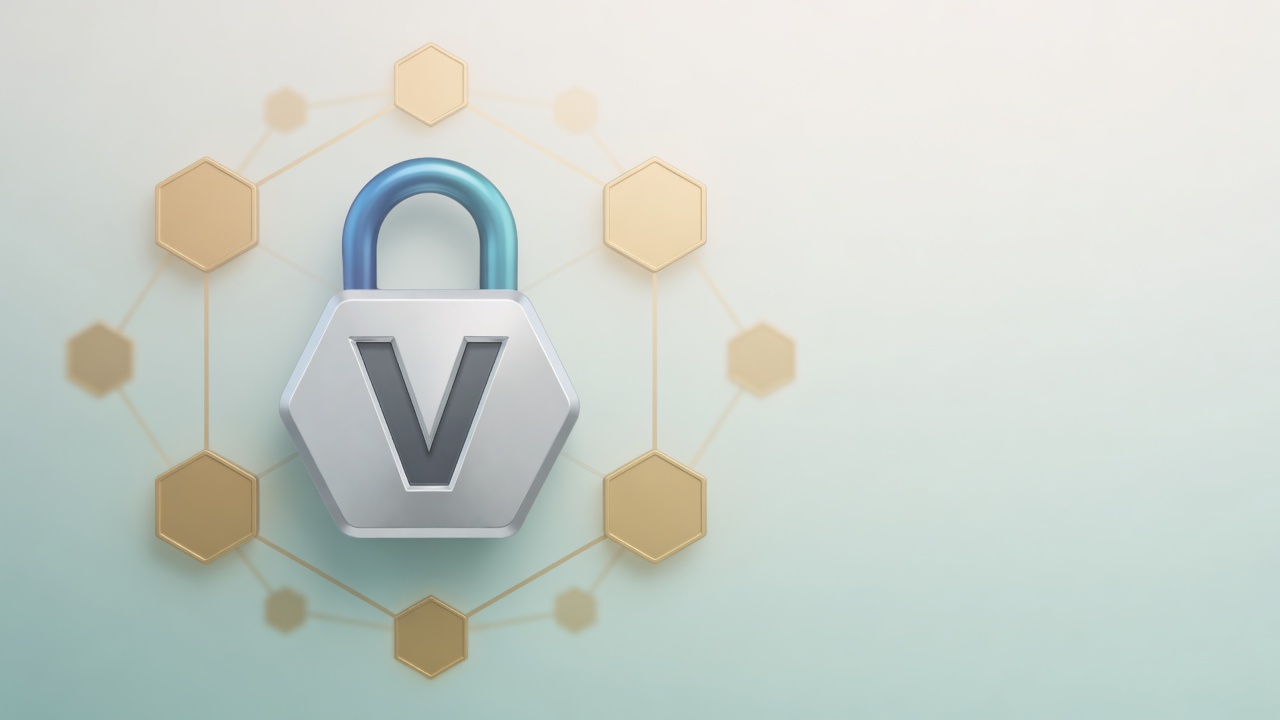
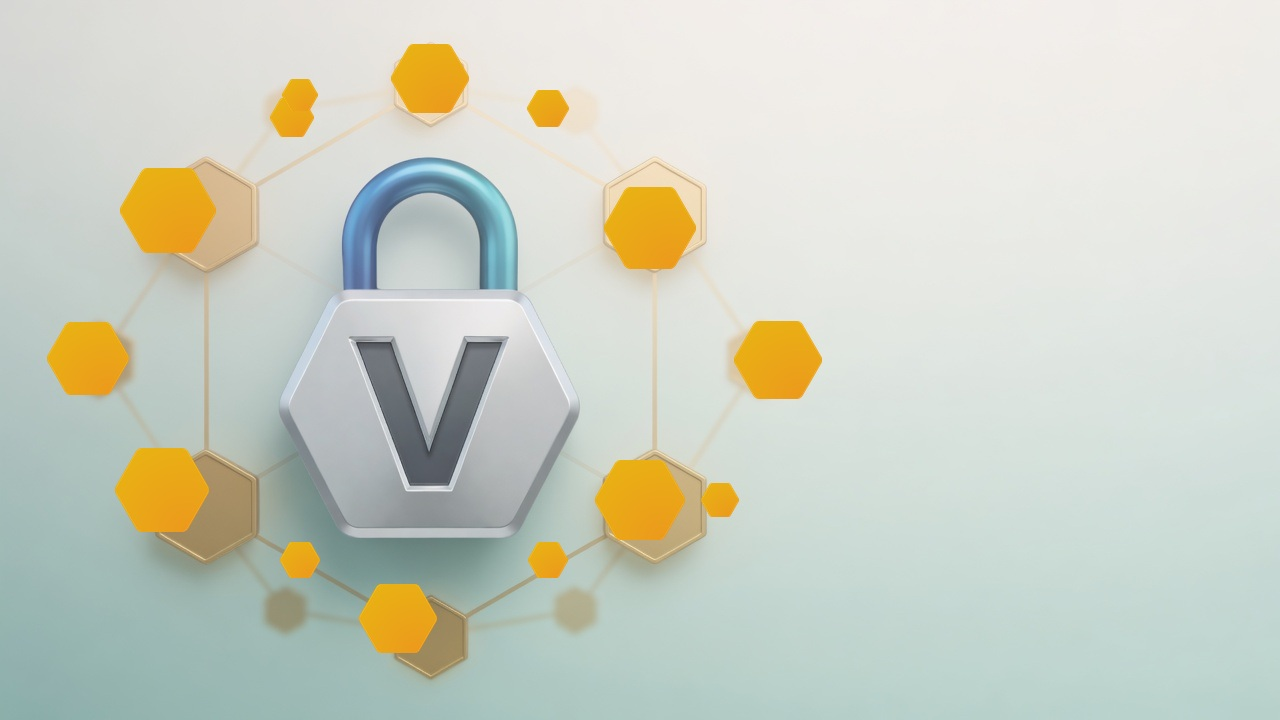
Fix Nimiq Pay login Approve sheet hidden by the mini-app WebView.
Issue the auth challenge before native Pay sheets so account access and
sign-in stay consecutive, block concurrent connect, and settle auto-connect
after the host provider is ready. Also ship the updated landing hero.

diff --git a/client/src/journey/useJourneyWallet.ts b/client/src/journey/useJourneyWallet.ts
@@ -93,6 +93,8 @@ export function useJourneyWallet(): UseJourneyWalletResult {
   const [showOpenInPay, setShowOpenInPay] = useState(false)
 
   const hubConnectInFlightRef = useRef(false)
+  /** Any connect() path in flight (Pay dialogs or Hub) - blocks concurrent Login taps. */
+  const connectInFlightRef = useRef(false)
   const walletStatusRef = useRef<string | null>(null)
   const lockCompleteRef = useRef<
     ((result: { txHash: string; token: string; docId: string }) => Promise<void>) | null
@@ -159,6 +161,7 @@ export function useJourneyWallet(): UseJourneyWalletResult {
     setWalletStatus(null)
     setShowOpenInPay(false)
     hubConnectInFlightRef.current = false
+    connectInFlightRef.current = false
     clearPayDeeplinkPending()
   }, [clearPayDeeplinkPending])
 
@@ -317,6 +320,7 @@ export function useJourneyWallet(): UseJourneyWalletResult {
     setError(prev => (prev === PAY_INSTALL_HINT ? null : prev))
     setShowOpenInPay(false)
     setWalletStatus(PAY_HANDOFF_HINT)
+    connectInFlightRef.current = false
     setConnecting(false)
     // Soft note only - do not leave the Login control stuck in a busy state.
     window.setTimeout(() => {
@@ -392,9 +396,11 @@ export function useJourneyWallet(): UseJourneyWalletResult {
       }
       // Still foreground after launch - OS never switched; app likely missing.
       payDeeplinkPendingRef.current = false
+      connectInFlightRef.current = false
       setShowOpenInPay(true)
       setError(PAY_INSTALL_HINT)
       setWalletStatus(null)
+      setConnecting(false)
     }, PAY_DEEPLINK_FALLBACK_MS)
   }, [clearDeeplinkFallbackTimer, clearPayDeeplinkPending, markPayDeeplinkHandoff])
 
@@ -404,7 +410,11 @@ export function useJourneyWallet(): UseJourneyWalletResult {
         setWalletStatus(HUB_REDIRECT_MESSAGE)
         return
       }
+      // Pay (and Hub popup) show native sheets - a second concurrent connect()
+      // steals focus and can bury the Approve step under the mini-app WebView.
+      if (connectInFlightRef.current) return
 
+      connectInFlightRef.current = true
       setConnecting(true)
       clearLoginCanceledTimer()
       setError(null)
@@ -417,23 +427,22 @@ export function useJourneyWallet(): UseJourneyWalletResult {
         const explicitHubRedirect = options?.useRedirect === true
         setWalletStatus(
           payHost
-            ? 'Waiting for Nimiq Pay wallet… approve the dialog when it appears.'
+            ? 'Waiting for Nimiq Pay wallet… approve each dialog when it appears.'
             : isMobileDevice() && !explicitHubRedirect
               ? 'Opening Nimiq Pay…'
               : 'Connecting via Nimiq Hub…',
         )
 
         // window.nimiq may lag behind window.nimiqPay inside the Nimiq Pay WebView.
+        // Always await the provider when the host is present so we never fall through
+        // to deeplink / Hub while already inside Pay.
         let inPay = payHost || Boolean(typeof window !== 'undefined' && window.nimiq)
-        if (!inPay && payHost) {
-          void probeNimiqPay(30_000)
-            .then(d => {
-              if (d && window.nimiq) {
-                setNimiq(window.nimiq)
-                setInNimiqPay(true)
-              }
-            })
-            .catch(() => {})
+        if (payHost && !window.nimiq) {
+          const detected = await probeNimiqPay(30_000)
+          if (detected && window.nimiq) {
+            setNimiq(window.nimiq)
+            inPay = true
+          }
         }
         setInNimiqPay(inPay || payHost)
 
@@ -485,10 +494,17 @@ export function useJourneyWallet(): UseJourneyWalletResult {
           return
         }
 
-        setWalletStatus('Approve account access in Nimiq Pay…')
-        const { nimiq: provider, address: addr } = await connectNimiq()
-        const { token: sessionToken, nonce } = await api.challenge(addr)
-        setWalletStatus('Approve the login signature in Nimiq Pay…')
+        /**
+         * Nimiq Pay login shows two native sheets: account access, then sign-in.
+         * Issue the server challenge *before* those sheets so we never await a
+         * network call between them - that gap let the mini-app WebView reclaim
+         * focus and hide the second (Approve) step.
+         * Address is bound from the public key on verify (same as Hub single-trip).
+         */
+        setWalletStatus('Approve each Nimiq Pay prompt when it appears…')
+        const { token: sessionToken, nonce } = await api.challenge(null)
+        const { nimiq: provider } = await connectNimiq()
+        // Keep connect → sign consecutive: no setState / fetch between native sheets.
         const { publicKey, signature } = await signChallenge(provider, nonce)
         const verified = await api.verify(sessionToken, {
           publicKey,
@@ -516,7 +532,9 @@ export function useJourneyWallet(): UseJourneyWalletResult {
         setWalletStatus(null)
       } finally {
         // Keep "Opening Nimiq Pay…" while we wait to see if the OS switches apps.
+        // Keep connecting UI during Hub redirect (full navigation leaves this tab).
         if (!hubConnectInFlightRef.current && !payDeeplinkPendingRef.current) {
+          connectInFlightRef.current = false
           setConnecting(false)
         }
       }
@@ -533,6 +551,8 @@ export function useJourneyWallet(): UseJourneyWalletResult {
   /**
    * Inside Nimiq Pay: after boot, if there is no session, run Pay login once so
    * opening verilock.online as a mini app lands logged in (approve dialogs only).
+   * Wait for the injected provider and a short settle so we do not race Pay's own
+   * "open website" handoff (that race buried the second Approve sheet).
    * Does not apply outside Pay; does not re-fire after explicit disconnect.
    */
   useEffect(() => {
@@ -547,7 +567,25 @@ export function useJourneyWallet(): UseJourneyWalletResult {
 
     payHostAutoConnectStarted = true
     setInNimiqPay(true)
-    void connect()
+
+    let cancelled = false
+    const run = async () => {
+      // Ensure window.nimiq is ready before prompting native sheets.
+      await probeNimiqPay(30_000).catch(() => false)
+      if (cancelled || skipPayAutoConnectRef.current || loadSession()?.token) return
+      // Let the mini-app WebView finish appearing after Pay's open-website confirm.
+      await new Promise<void>(resolve => {
+        window.setTimeout(resolve, 450)
+      })
+      if (cancelled || skipPayAutoConnectRef.current || loadSession()?.token) return
+      if (document.visibilityState !== 'visible') return
+      void connect()
+    }
+    void run()
+
+    return () => {
+      cancelled = true
+    }
   }, [bootReady, token, connect])
 
   const account = address ? toJourneyAccount(address) : null

diff --git a/client/src/api.ts b/client/src/api.ts
@@ -71,9 +71,10 @@ export const api = {
   health: () => request<{ ok: boolean; app: string; chainVerify: boolean; storageMode?: string }>('/api/health'),
 
   /**
-   * Hub single-trip login: omit `address` so the server issues a pending session;
-   * Hub signMessage (no signer) lets the user pick a wallet and sign in one trip.
-   * Pay / legacy: pass the connected address.
+   * Challenge for wallet login.
+   * - Omit `address` (Hub + Pay): pending session; bind wallet from public key on verify.
+   *   Pay uses this so account-access + sign sheets stay consecutive (no fetch between).
+   * - With `address` (legacy): session bound to that wallet up front.
    */
   challenge: (address?: string | null) =>
     request<{ token: string; nonce: string; address: string | null }>('/api/auth/challenge', {

diff --git a/client/src/nimiq.ts b/client/src/nimiq.ts
@@ -86,6 +86,12 @@ export async function ensureNimiqProvider(existing: Awaited<ReturnType<typeof in
   return nimiq
 }
 
+/**
+ * First native Pay sheet: account access (`connect` → `listAccounts`).
+ * Callers that also need a login signature should issue the server challenge
+ * *before* this, then call `signChallenge` immediately after - never await
+ * network between the two sheets (WebView can reclaim focus and hide Approve).
+ */
 export async function connectNimiq() {
   const timeout = isNimiqPayHost() ? 30_000 : 10_000
   const nimiq = await init({ timeout })
